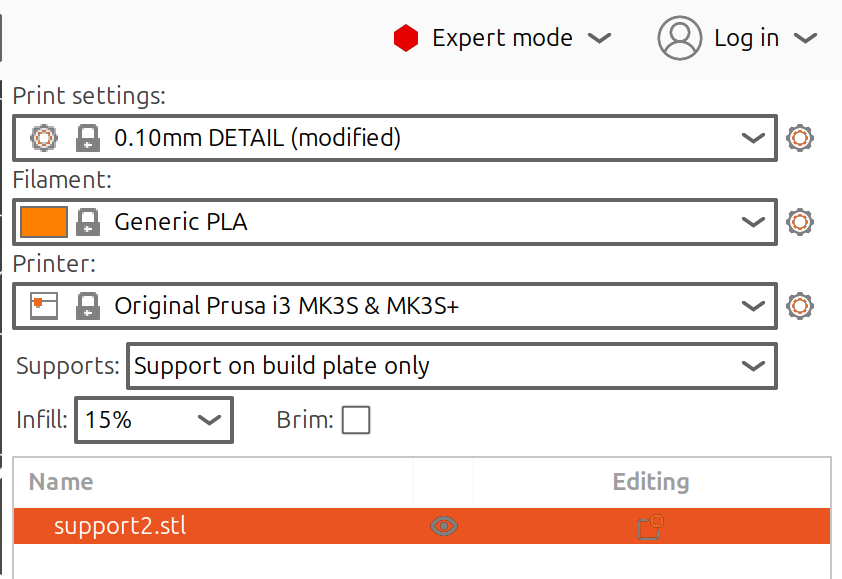
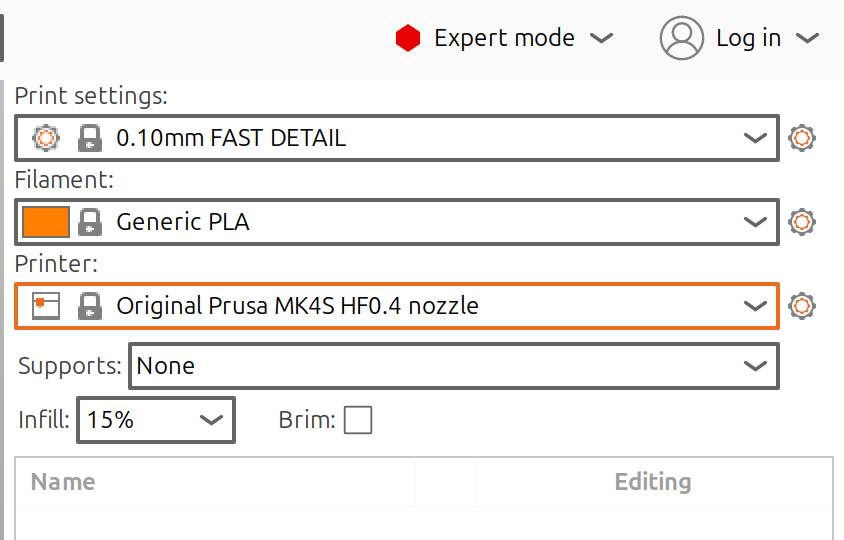
updated slicer data

Changed region(s): [[0.0, 0.1481, 0.9881, 1.0], [0.4632, 0.0296, 0.7411, 0.0889], [0.772, 0.0296, 0.9881, 0.1185]]

diff --git a/2025/assignments/AN_07/html/AN_07_3D.html b/2025/assignments/AN_07/html/AN_07_3D.html
@@ -175,12 +175,12 @@ ul.task-list li input[type="checkbox"] {
 <h3 class="anchored" data-anchor-id="install-the-prusa-slicer">Install the Prusa slicer</h3>
 <ol type="1">
 <li><p>Start by downloading the <a href="https://github.com/prusa3d/PrusaSlicer/releases">Prusaslicer</a> software and install it on your computer (again no need to be on linux/WSL).</p></li>
-<li><p>Open the prusaslicer and select the printer model Prusa MK3S+ in the wizard.</p></li>
+<li><p>Open the prusaslicer and select the printer model Prusa MK4S+ in the wizard.</p></li>
 <li><p>Modify the main settings (on the right) as follows:</p>
 <ul>
 <li>Layer thickness 0.10 mm</li>
 <li>Filament Generic PLA</li>
-<li>Printer Prusa MK3S+</li>
+<li>Printer Prusa MK4S+ HF0.4 nozzle</li>
 <li>Supports “Everywhere”</li>
 <li>Infill 15%</li>
 <li>“Expert mode” for the next steps</li>
@@ -193,7 +193,7 @@ ul.task-list li input[type="checkbox"] {
 </figure>
 </div>
 <ol start="4" type="1">
-<li>Modify the infill settings by selecting the “Cubic” fill pattern</li>
+<li>Modify the “Print Settings” → “Infill” values by selecting the “Cubic” fill pattern</li>
 </ol>
 <div class="quarto-figure quarto-figure-center">
 <figure class="figure">
@@ -202,7 +202,7 @@ ul.task-list li input[type="checkbox"] {
 </figure>
 </div>
 <ol start="5" type="1">
-<li>Modify the support settings by selecting the “Snug” style and “Rectilinear grid” pattern</li>
+<li>Modify the “Print Settings” → Support Material settings by selecting to generate aupport material</li>
 </ol>
 <div class="quarto-figure quarto-figure-center">
 <figure class="figure">
